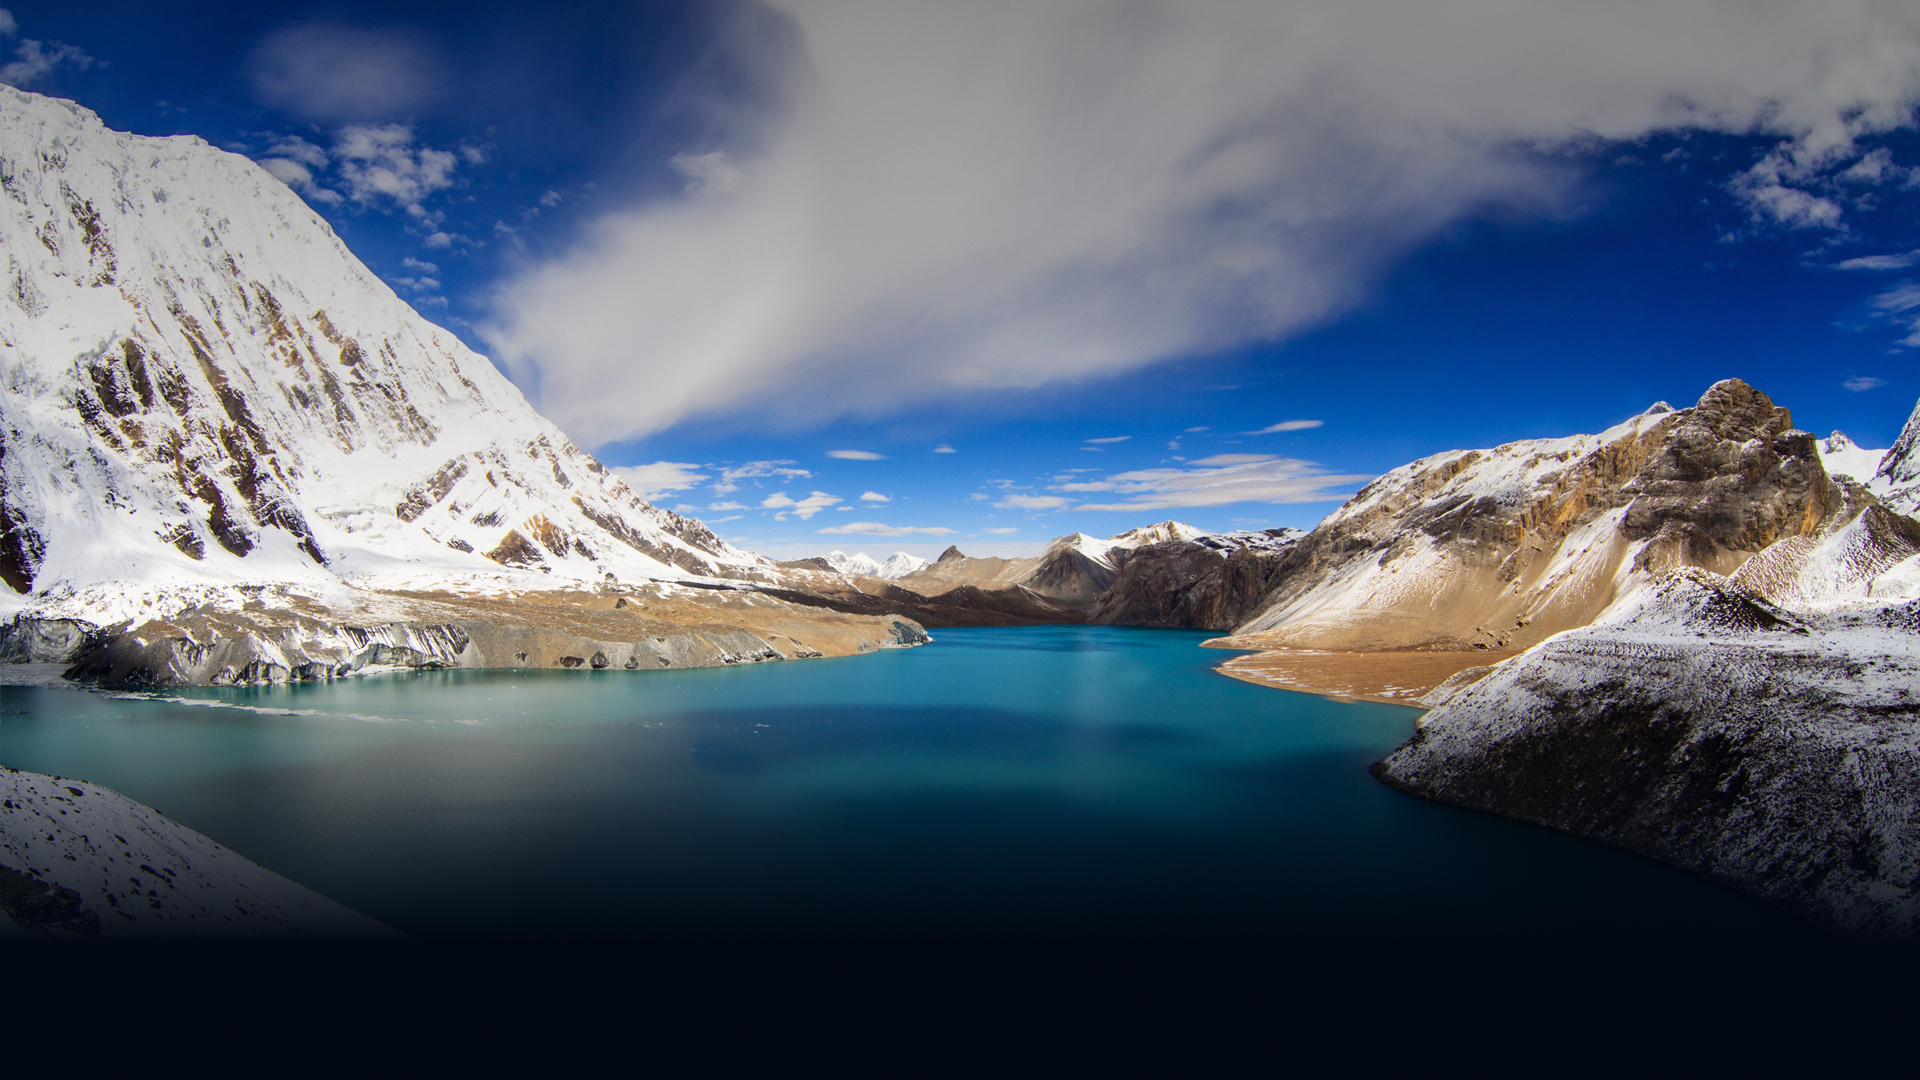
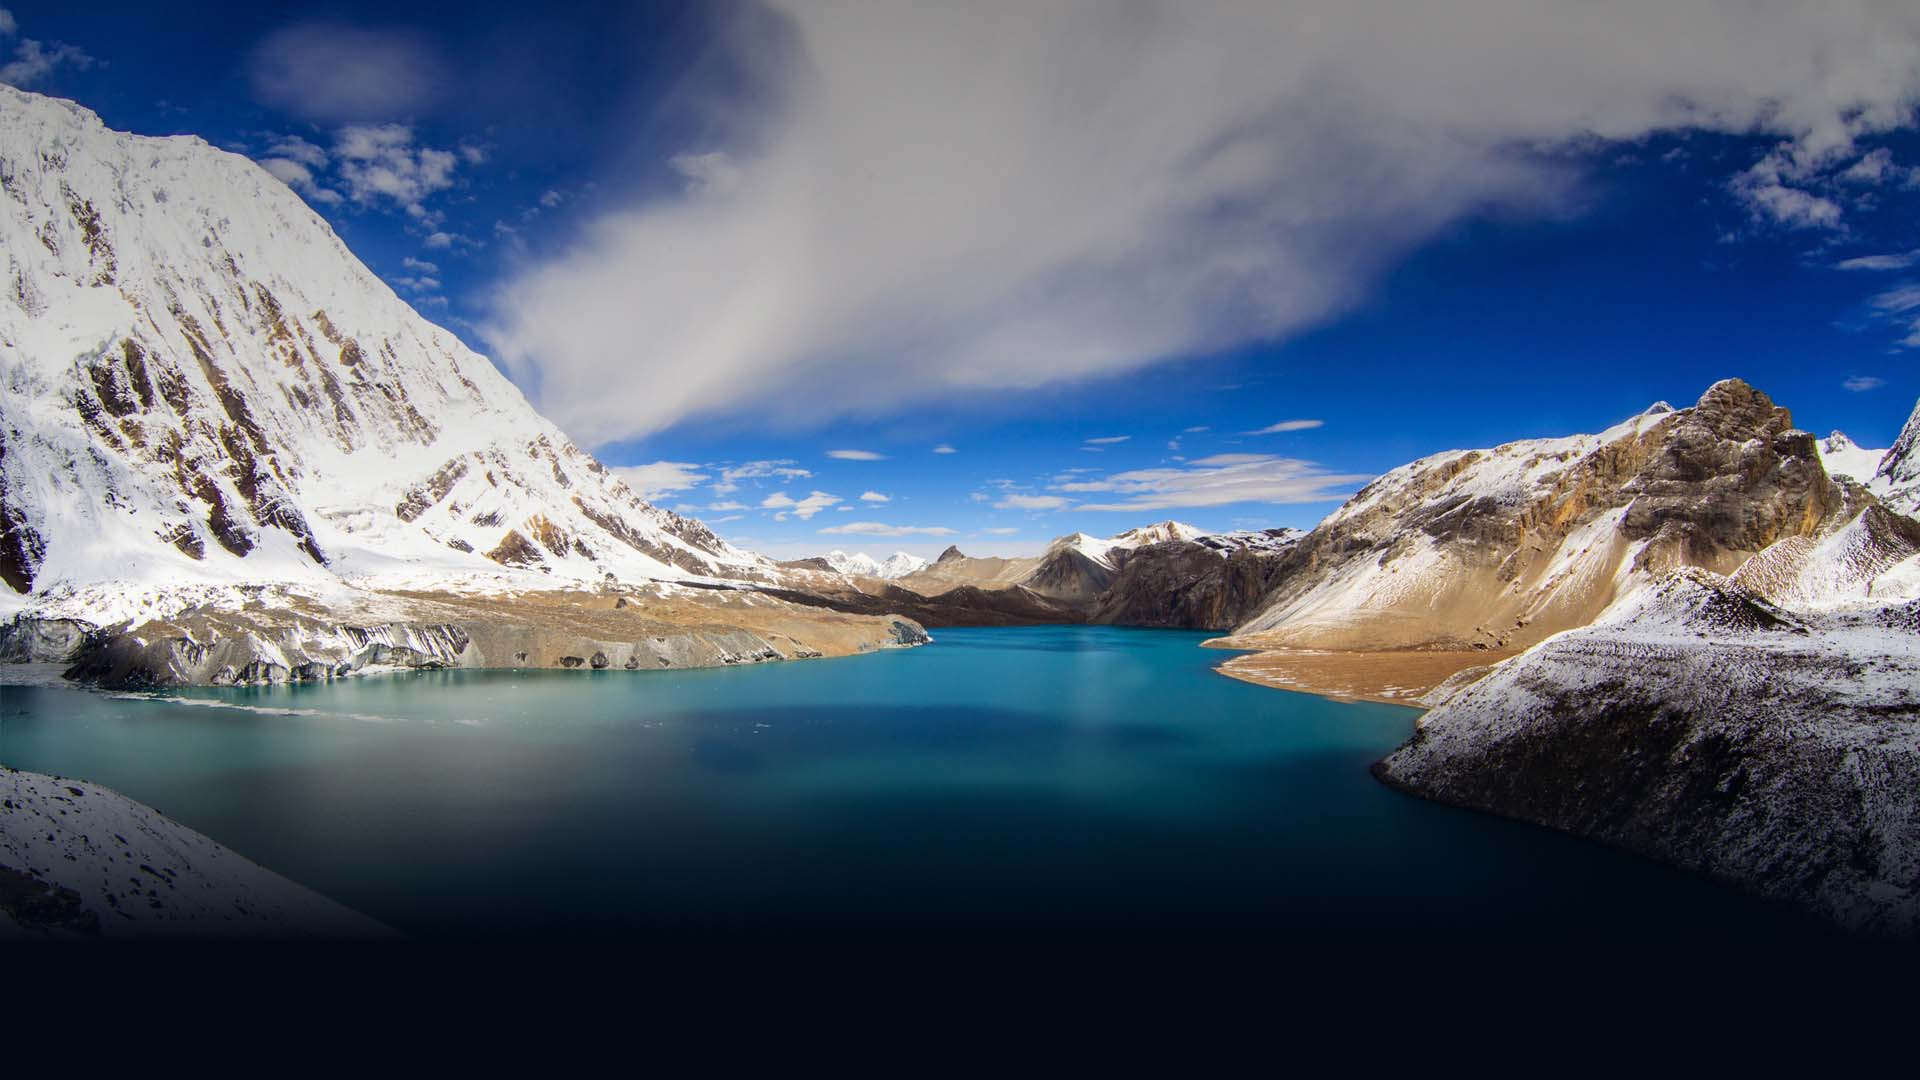
Updating laurels.

diff --git a/content/home.html b/content/home.html
@@ -7,8 +7,20 @@ slug: /
 <section id="banner-title">
     <div class="section-content">
         <div id="official-selection-wrapper">
+            <a href="https://vimff.org/film/back-to-tilicho-a-love-story/" target="_blank">
+                <img src="/images/vimff_official_selection.png" alt="VIMFF Official Selection">
+            </a>
+            <a href="https://www.fifalp.ch/fr/programme/detail-film/back-to-tilicho-a-love-story" target="_blank">
+                <img src="/images/fifalp_official_selection.png" alt="FIFALP Official Selection">
+            </a>
             <a href="" target="_blank">
-                <img src="/images/vimff_official_selection.png" alt="Official Selection">
+                <img src="/images/dijon_official_selection.png" alt="Ecrans de l'aventure Official Selection">
+            </a>
+            <a class="mobile-hidden" href="https://riomountainfestival.com.br/noticias/confira-os-filmes-selecionados-para-o-rmf-2026/" target="_blank">
+                <img src="/images/rio_official_selection.png" alt="Rio Mountain Festival Official Selection">
+            </a>
+            <a class="mobile-hidden" href="https://www.bitchfestla.com/results/season2" target="_blank">
+                <img src="/images/bitchfest_official_selection.png" alt="Rio Mountain Festival Official Selection">
             </a>
         </div>
         <div id="movie-title-wrapper">

diff --git a/assets/scss/_home.scss b/assets/scss/_home.scss
@@ -68,17 +68,31 @@ section#banner-title {
       top: 2rem;
       left: 50%;
       transform: translateX(-50%);
+      display: flex;
+      gap: 2rem;
 
       @include from($sm) {
         top: 4rem;
       }
 
-      img {
-        max-width: 14rem;
+      a {
+        height: 4rem;
+
+        &.mobile-hidden {
+          display: none;
+
+          @include from($lg) {
+            display: block;
+          }
+        }
 
         @include from($sm) {
-          max-width: 18rem;
+          height: 6rem;
         }
+      }
+
+      img {
+        height: 100%;
       }
     }
 
@@ -91,7 +105,11 @@ section#banner-title {
       width: 100%;
 
       @include from($sm) {
-        top: 22rem;
+        top: 15rem;
+      }
+
+      @include from($xxl) {
+        top: 17rem;
       }
 
       h1 {

diff --git a/layouts/partials/styles.html b/layouts/partials/styles.html
@@ -1,4 +1,4 @@
 {{ $options := (dict "targetPath" "style.css" "outputStyle" "compressed") }}
 {{ $styleSass := resources.Get "scss/styles.scss" }}
-{{ $styleCSS := $styleSass | resources.ToCSS $options }}
+{{ $styleCSS := $styleSass | css.Sass $options }}
 <link rel="stylesheet" href="{{ $styleCSS.Permalink }}">
